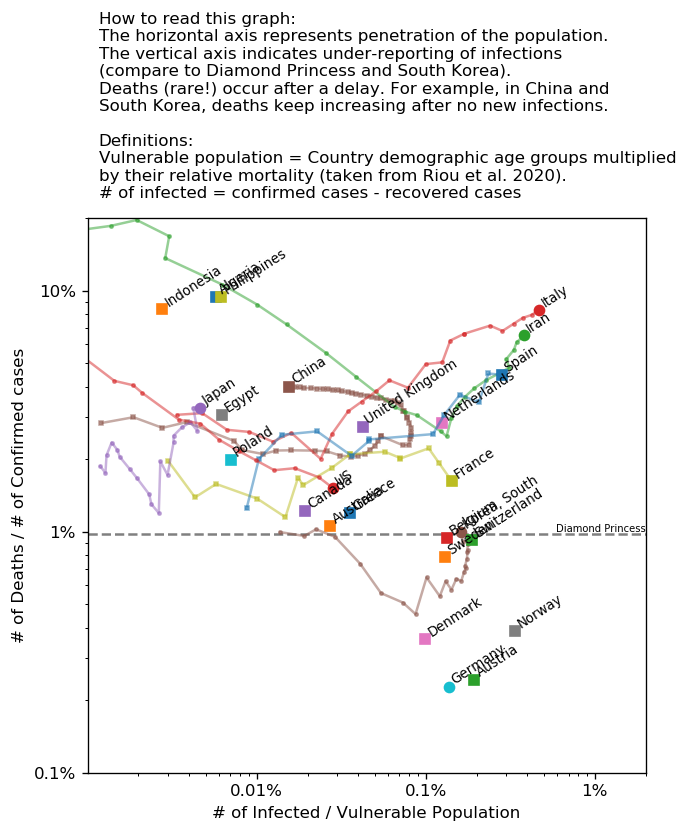
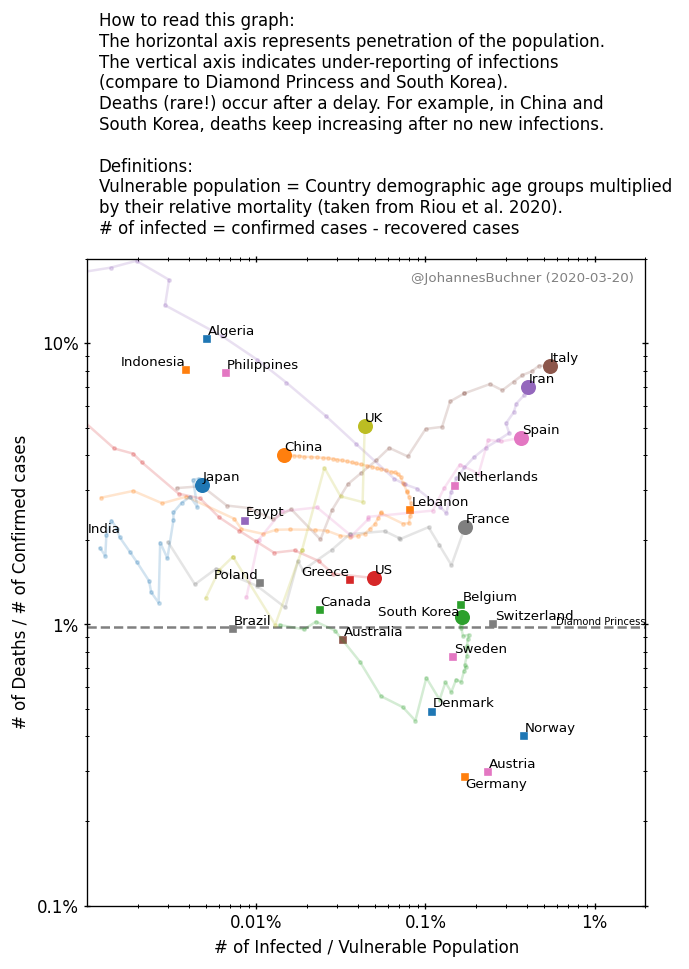
make colours consistent, make plots less busy

diff --git a/ratio.py b/ratio.py
@@ -1,6 +1,9 @@
 import numpy as np
 import matplotlib.pyplot as plt
 import pandas
+import os
+from datetime import datetime
+from adjustText import adjust_text
 
 print("loading COVID-19 data...")
 f1 = 'time_series_19-covid-Confirmed.csv'
@@ -25,6 +28,12 @@ country_name_replacement = {
 	'Iran':'Iran (Islamic Republic of)',
 	'Russia': 'Russian Federation',
 	'Korea, South': 'Republic of Korea',
+}
+country_briefname_replacement = {
+	'Iran (Islamic Republic of)':'Iran',
+	'United Kingdom':'UK',
+	'Korea, South': 'South Korea',
+	'Republic of Korea': 'South Korea',
 }
 
 agegroups = [
@@ -60,15 +69,26 @@ pop = pandas.concat([
 
 beds = pandas.read_csv('UNdata_Export_hospitalbeds.csv')
 
-marked_countries = ['US', 'Germany', 'Japan', 'Italy', 'Korea, South', 'Iran']
+prop_cycle = plt.rcParams['axes.prop_cycle']
+colors = prop_cycle.by_key()['color'] * 100
+
+marked_countries = ['Japan', 'China', 'South Korea', 'US', 'Iran', 'Italy', 'Spain', 'France', 'UK']
+#marked_countries = ['US', 'Germany', 'Japan', 'Italy', 'Korea, South', 'Iran']
+#marked_countries_colors = {'US':'red', 'Japan':'brown', 'Italy':'green', 
+#	'Korea, South':'black', 'Iran':'blue', 'France':'lime', 'China':'pink',
+#	'Spain':''}
+marked_countries_colors = {c:colors.pop(0) for c in marked_countries}
 
 #print("countries:", sorted(set(pop["Country or Area"])))
 
-a = plt.figure(figsize=(6, 6))
+a = plt.figure(figsize=(6, 7))
 ax = a.gca()
-b = plt.figure(figsize=(6, 6))
+b = plt.figure(figsize=(6, 7))
 bx = b.gca()
 
+use_all_countries = os.environ.get('COUNTRIES', 'all') == 'all'
+atexts = []
+btexts = []
 #min_dead = 4
 
 print("per-country extraction:")
@@ -91,12 +111,13 @@ for (i, row1), (_, row2), (_, row3) in zip(d1.iterrows(), d2.iterrows(), d3.iter
 	if len(beds_recent) == 0:
 		beds_recent = 0
 		#print("skipping", country, "no bed data")
-		#continue
+		continue
 	else:
 		beds_recent = beds_recent[0]
 
 	#if country not in ['US', 'Germany', 'Japan', 'Italy', 'Korea, South']:
 	#	continue
+	country_brief = country_briefname_replacement.get(country, country)
 	
 	year = pandas.to_numeric(pop_country.Year)
 	country_recent = pop_country[year == year.max()]
@@ -106,6 +127,13 @@ for (i, row1), (_, row2), (_, row3) in zip(d1.iterrows(), d2.iterrows(), d3.iter
 	
 	print("%20s %6d %6d %14d %.2f%%" % (country, beds_recent, max(timeseries_dead), 
 		sum(num_people), sum(vulnerable_number) * 100 / sum(num_people)))
+	
+	if country_brief in marked_countries_colors:
+		color = marked_countries_colors[country_brief]
+	else:
+		if not use_all_countries: 
+			continue
+		color = colors.pop(0)
 	
 	# for small countries, require a higher number of dead, 
 	# otherwise the estimates are all over the place
@@ -124,38 +152,33 @@ for (i, row1), (_, row2), (_, row3) in zip(d1.iterrows(), d2.iterrows(), d3.iter
 	#mask = np.logical_and(timeseries_dead >= 3, timeseries_reported / vulnerable_number.sum() > 1e-5)
 	x = timeseries_cases[mask] / vulnerable_number.sum()
 	y = timeseries_dead[mask] / timeseries_reported[mask]
+	marker = 'o-' if country_brief in marked_countries else 's-'
+	size = 8 if mask.sum() > 10 else 4
 	if mask.any():
-		l, = ax.plot(x[-1], y[-1],
-			'o' if country in marked_countries else 's')
-		ax.text(x[-1], y[-1], country, va='bottom', ha='left', size=8, rotation=33)
-		if mask.sum() > 10:
-			ax.plot(x, y,
-				'o-' if country in marked_countries else 's-', ms=2,
-				label=country, alpha=0.5, color=l.get_color())
+		l, = ax.plot(x[-1], y[-1], marker, ms=size, color=color)
+		atexts.append(ax.text(x[-1], y[-1], country_brief, va='bottom', ha='left', size=8))
+		if mask.sum() > 10 or country_brief in marked_countries:
+			ax.plot(x, y, marker, ms=2, label=country_brief, alpha=0.2, color=color)
 	
 	elif timeseries_cases[-1] / vulnerable_number.sum() > 1e-5:
 		ax.plot(timeseries_cases[-1] / vulnerable_number.sum(), 1e-3,
-			'o' if country in marked_countries else 's')
+			marker, color=color, ms=2)
 		ax.text(timeseries_cases[-1] / vulnerable_number.sum(), 1e-3,
-			'  ' + country, va='bottom', ha='center', size=6, rotation=90)
+			'  ' + country_brief, va='bottom', ha='center', size=6, rotation=90)
 
 	x = timeseries_cases[mask] / vulnerable_number.sum() / beds_recent
 	y = timeseries_dead[mask] / timeseries_reported[mask]
 	if mask.any():
-		l, = bx.plot(x[-1], y[-1],
-			'o' if country in marked_countries else 's',
-			)
-		bx.text(x[-1], y[-1], country, va='bottom', ha='left', size=8, rotation=33)
-		if mask.sum() > 10:
-			bx.plot(x, y,
-				'o-' if country in marked_countries else 's-', ms=2,
-				label=country, alpha=0.5, color=l.get_color())
+		l, = bx.plot(x[-1], y[-1], marker, ms=size, color=color)
+		btexts.append(bx.text(x[-1], y[-1], country_brief, va='bottom', ha='left', size=8))
+		if mask.sum() > 10 or country_brief in marked_countries:
+			bx.plot(x, y, marker, ms=2, label=country_brief, alpha=0.2, color=l.get_color())
 	
-	elif timeseries_cases[-1] / vulnerable_number.sum() / beds_recent > 1e-3 or True:
+	else:
 		bx.plot(timeseries_cases[-1] / vulnerable_number.sum() / beds_recent, 1e-3,
-			'o' if country in marked_countries else 's')
+			marker, color=color, ms=2)
 		bx.text(timeseries_cases[-1] / vulnerable_number.sum() / beds_recent, 1e-3,
-			'  ' + country, va='bottom', ha='center', size=6, rotation=90)
+			'  ' + country_brief, va='bottom', ha='center', size=6, rotation=90)
 
 plt.sca(ax)
 ax.text(0.02, 1.0, """How to read this graph:
@@ -171,25 +194,35 @@ by their relative mortality (taken from Riou et al. 2020).
 # of infected = confirmed cases - recovered cases
 """, va='bottom', ha='left', transform=ax.transAxes, size=10)
 
+ax.text(0.98, 0.98, "@JohannesBuchner (%s)" % datetime.now().strftime("%Y-%m-%d"), va='top', ha='right',
+	transform=ax.transAxes, size=8, color="gray")
+
 plt.xlabel('# of Infected / Vulnerable Population')
 plt.ylabel('# of Deaths / # of Confirmed cases')
 plt.xscale('log')
 plt.yscale('log')
+ax.tick_params(axis='both', direction='inout', which='both', 
+	bottom=True, top=True, left=True, right=True,)
 plt.xticks([1e-4, 1e-3, 1e-2], ['0.01%', '0.1%', '1%'])
 plt.yticks([1e-3, 1e-2, 1e-1, 1], ['0.1%', '1%', '10%', '100%'])
 plt.hlines(7/712, 1e-5, 2e-2, linestyles=['--'], color='gray')
 plt.text(2e-2, 7/712, 'Diamond Princess', ha='right', va='bottom', size=6)
 plt.ylim(1e-3, 0.2)
 plt.xlim(1e-5, 2e-2)
+adjust_text(atexts)
 #plt.legend(loc='best', ncol=3, prop=dict(size=8))
-plt.savefig('ratio.pdf', bbox_inches='tight')
-plt.savefig('ratio.png', bbox_inches='tight', dpi=120)
+if use_all_countries:
+	plt.savefig('ratio.pdf', bbox_inches='tight')
+	plt.savefig('ratio.png', bbox_inches='tight', dpi=120)
+else:
+	plt.savefig('ratio_some.pdf', bbox_inches='tight')
+	plt.savefig('ratio_some.png', bbox_inches='tight', dpi=120)
 plt.close()
 
 #plt.plot([1e-6, 1e-3], [5e-6/1e-6, 5e-6/1e-3], ':', color='gray', alpha=0.5)
 
 plt.sca(bx)
-bx.text(0.98, 0.98, "@JohannesBuchner (non-expert)", va='top', ha='right',
+bx.text(0.98, 0.98, "@JohannesBuchner (%s)" % datetime.now().strftime("%Y-%m-%d"), va='top', ha='right',
 	transform=bx.transAxes, size=8, color="gray")
 
 bx.text(0.02, 1.0, """How to read this graph:
@@ -208,13 +241,21 @@ plt.xlabel("# of Infected / Vulnerable Population / # hospital beds per person")
 plt.ylabel('# of Deaths / # of Confirmed cases')
 plt.xscale('log')
 plt.yscale('log')
+bx.tick_params(axis='both', direction='inout', which='both', 
+	bottom=True, top=True, left=True, right=True,)
+	#labelbottom=True, labeltop=True, labelleft=True, labelright=True)
 plt.xticks([1e-2, 1e-1, 1], ['1%', '10%', '100%'])
 plt.yticks([1e-3, 1e-2, 1e-1, 1], ['0.1%', '1%', '10%', '100%'])
 plt.hlines(7/712, 1e-3, 8, linestyles=['--'], color='gray')
 plt.text(8, 7/712, 'Diamond Princess', ha='right', va='bottom', size=6)
 plt.ylim(1e-3, 0.2)
 plt.xlim(1e-3, 8)
+adjust_text(btexts)
 #plt.legend(loc='best', ncol=3, prop=dict(size=8))
-plt.savefig('ratio_beds.pdf', bbox_inches='tight')
-plt.savefig('ratio_beds.png', bbox_inches='tight', dpi=120)
+if use_all_countries:
+	plt.savefig('ratio_beds.pdf', bbox_inches='tight')
+	plt.savefig('ratio_beds.png', bbox_inches='tight', dpi=120)
+else:
+	plt.savefig('ratio_beds_some.pdf', bbox_inches='tight')
+	plt.savefig('ratio_beds_some.png', bbox_inches='tight', dpi=120)
 plt.close()

diff --git a/README.rst b/README.rst
@@ -1,4 +1,4 @@
-COVID-19 analysis with Stan
+COVID-19 toy analysis
 ============================
 
 The number of confirmed cases depends strongly on the testing approach
@@ -10,7 +10,45 @@ In the script, I also tried to incorporate
 population demographics (age distribution of each country),
 to correctly identify the country-specific vulnerable population size.
 
-However, the results do not seem to make sense (yet).
+.. image:: https://raw.githubusercontent.com/JohannesBuchner/COVID-19-analysis/master/ratio_beds_some.png
+
+Things I notice / interpret (as a non-expert!):
+
+* South Korea and Diamond Princess are consistent in mortality,
+  and thought to be quite complete in infection testing.
+  Other countries are probably under-counting the infected.
+* Phases can be seen: 
+
+  1. first a right-down line (Early Iran, South Korea, US now), 
+     perhaps the expansion of the infection in the population, (2)
+  2. increase to the top right (Iran, Japan), perhaps because 
+     delayed deaths are accumulating.
+  3. Vertical upwards (China, South Korea): 
+     New infections have been stopped. Delayed deaths accumulate.
+  4. Return to left (China): people recover, the health care system is relaxing.
+
+* In the top right of the plot, the health care system is highly stressed (number of infected large 
+  compared to available hospital beds).
+  Italy and Iran are there. 
+  The number of deaths increase as a country heads to the right.
+  Spain is going there as well.
+
+* The US is speeding to the right, but (surprisingly?) shows 
+  little sign of under-counting the infected.
+
+With all countries:
+
+.. image:: https://raw.githubusercontent.com/JohannesBuchner/COVID-19-analysis/master/ratio_beds.png
+
+Things I notice / interpret (as a non-expert!):
+
+* Germany, Austria (and Denmark, Norway) are at the bottom of the chart --
+  mortality is unusually low there. I am unsure if this is because
+  of undercounting of deaths, over-counting of infected (unlikely),
+  or quality and accessibility of the health care system.
+
+* 
+  
 
 Data
 ---------
@@ -27,3 +65,4 @@ Reading recommendations
 * Riou+2020 paper: https://www.medrxiv.org/content/10.1101/2020.03.04.20031104v1.full.pdf
 * also discussed here: https://statmodeling.stat.columbia.edu/2020/03/07/coronavirus-age-specific-fatality-ratio-estimated-using-stan/
 * https://coronavirus.jhu.edu/
+* https://neherlab.org/covid19/
